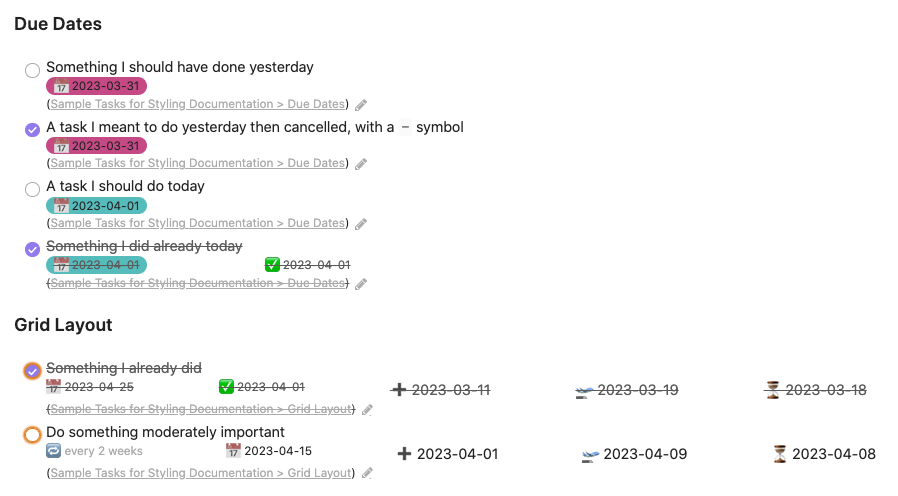
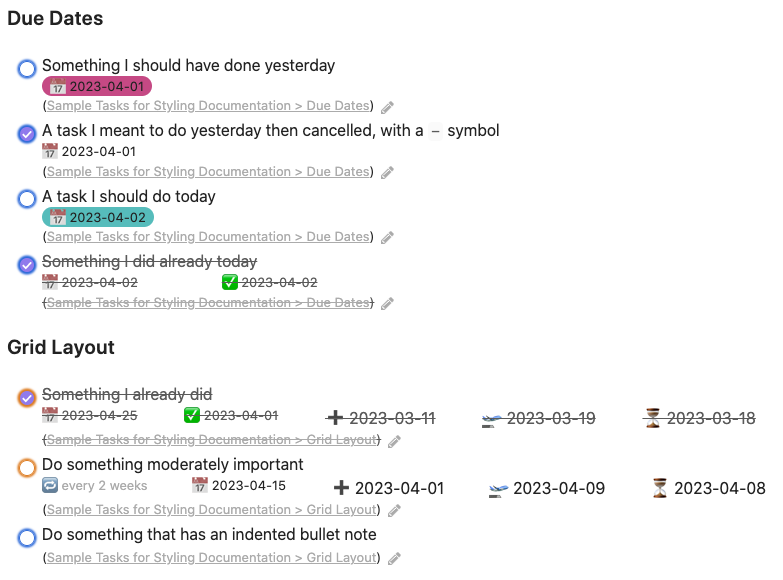
docs,vault: Port Priority & Due CSS changes to Complete example
And update the corresponding screenshot
(and Sample Tasks for Styling Documentation.md)

diff --git a/resources/sample_vaults/Tasks-Demo/.obsidian/snippets/tasks-plugin-complete-example.css b/resources/sample_vaults/Tasks-Demo/.obsidian/snippets/tasks-plugin-complete-example.css
@@ -29,14 +29,19 @@ span.tasks-list-text {
     border-color: var(--color-red);
 }
 
-.task-list-item[data-task-priority="low"] input[type=checkbox] {
+.task-list-item[data-task-priority="medium"] input[type=checkbox] {
+    box-shadow: 0px 0px 2px 2px var(--color-orange);
+    border-color: var(--color-orange);
+}
+
+.task-list-item[data-task-priority="normal"] input[type=checkbox] {
     box-shadow: 0px 0px 2px 2px var(--color-blue);
     border-color: var(--color-blue);
 }
 
-.task-list-item[data-task-priority="medium"] input[type=checkbox] {
-    box-shadow: 0px 0px 2px 2px var(--color-orange);
-    border-color: var(--color-orange);
+.task-list-item[data-task-priority="low"] input[type=checkbox] {
+    box-shadow: 0px 0px 2px 2px var(--color-cyan);
+    border-color: var(--color-cyan);
 }
 
 /* This part removes the regular priority emoticon */
@@ -44,15 +49,17 @@ span.task-priority {
     display: none;
 }
 
-/* A special color for the 'due' component if it's for today */
-.task-due[data-task-due="today"] span {
-    background: var(--code-property);
+/* A special color for the 'due' component if it's for today, and still needs work on */
+.task-list-item[data-task-status-type="TODO"] .task-due[data-task-due="today"] span,
+.task-list-item[data-task-status-type="IN_PROGRESS"] .task-due[data-task-due="today"] span {
+    background: var(--color-cyan);
     border-radius: 10px;
     padding: 2px 8px;
 }
 
-/* A special color for overdue due dates */
-.task-due[data-task-due^="past-"] span {
+/* A special color for overdue due dates, for tasks that still need work on */
+.task-list-item[data-task-status-type="TODO"] .task-due[data-task-due^="past-"] span,
+.task-list-item[data-task-status-type="IN_PROGRESS"] .task-due[data-task-due^="past-"] span {
     background: var(--color-pink);
     border-radius: 10px;
     padding: 2px 8px;

diff --git a/docs/advanced/styling.md b/docs/advanced/styling.md
@@ -467,14 +467,19 @@ span.tasks-list-text {
     border-color: var(--color-red);
 }
 
-.task-list-item[data-task-priority="low"] input[type=checkbox] {
+.task-list-item[data-task-priority="medium"] input[type=checkbox] {
+    box-shadow: 0px 0px 2px 2px var(--color-orange);
+    border-color: var(--color-orange);
+}
+
+.task-list-item[data-task-priority="normal"] input[type=checkbox] {
     box-shadow: 0px 0px 2px 2px var(--color-blue);
     border-color: var(--color-blue);
 }
 
-.task-list-item[data-task-priority="medium"] input[type=checkbox] {
-    box-shadow: 0px 0px 2px 2px var(--color-orange);
-    border-color: var(--color-orange);
+.task-list-item[data-task-priority="low"] input[type=checkbox] {
+    box-shadow: 0px 0px 2px 2px var(--color-cyan);
+    border-color: var(--color-cyan);
 }
 
 /* This part removes the regular priority emoticon */
@@ -482,15 +487,17 @@ span.task-priority {
     display: none;
 }
 
-/* A special color for the 'due' component if it's for today */
-.task-due[data-task-due="today"] span {
-    background: var(--code-property);
+/* A special color for the 'due' component if it's for today, and still needs work on */
+.task-list-item[data-task-status-type="TODO"] .task-due[data-task-due="today"] span,
+.task-list-item[data-task-status-type="IN_PROGRESS"] .task-due[data-task-due="today"] span {
+    background: var(--color-cyan);
     border-radius: 10px;
     padding: 2px 8px;
 }
 
-/* A special color for overdue due dates */
-.task-due[data-task-due^="past-"] span {
+/* A special color for overdue due dates, for tasks that still need work on */
+.task-list-item[data-task-status-type="TODO"] .task-due[data-task-due^="past-"] span,
+.task-list-item[data-task-status-type="IN_PROGRESS"] .task-due[data-task-due^="past-"] span {
     background: var(--color-pink);
     border-radius: 10px;
     padding: 2px 8px;

diff --git a/resources/sample_vaults/Tasks-Demo/Styling/Sample Tasks for Styling Documentation.md b/resources/sample_vaults/Tasks-Demo/Styling/Sample Tasks for Styling Documentation.md
@@ -27,10 +27,10 @@ group by heading
 
 ## Due Dates
 
-- [ ] #task Something I should have done yesterday 📅 2023-03-31
-- [-] #task A task I meant to do yesterday then cancelled, with a `-` symbol 📅 2023-03-31
-- [ ] #task A task I should do today 📅 2023-04-01
-- [x] #task Something I did already today 📅 2023-04-01 ✅ 2023-04-01
+- [ ] #task Something I should have done yesterday 📅 2023-04-01
+- [-] #task A task I meant to do yesterday then cancelled, with a `-` symbol 📅 2023-04-01
+- [ ] #task A task I should do today 📅 2023-04-02
+- [x] #task Something I did already today 📅 2023-04-02 ✅ 2023-04-02
 
 ## Tags
 
